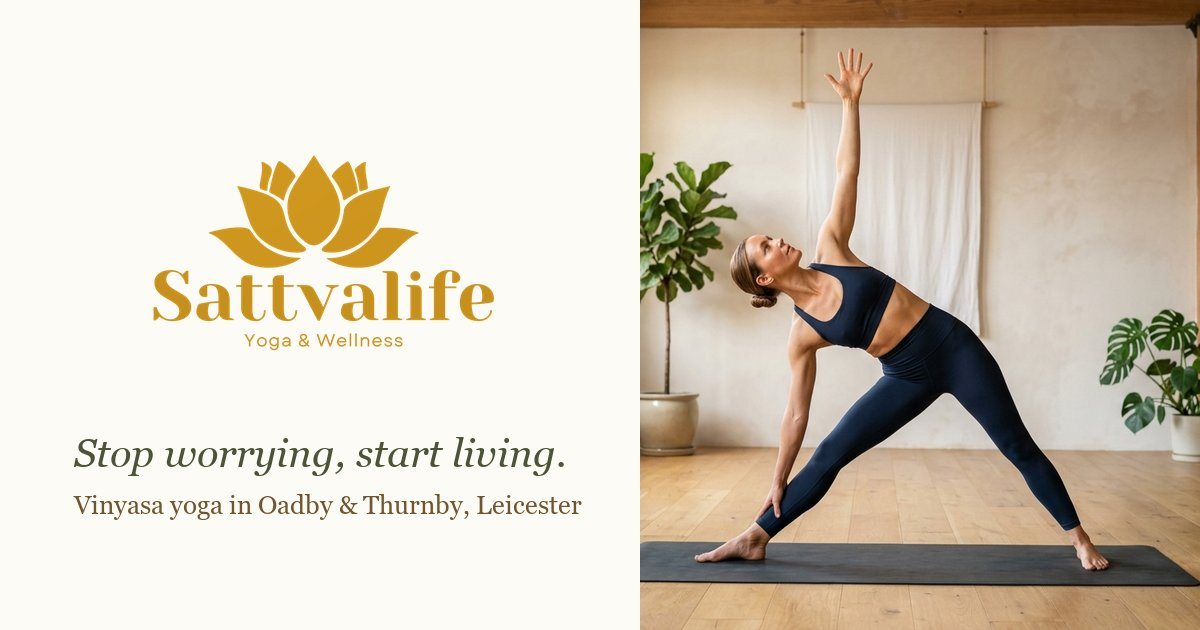
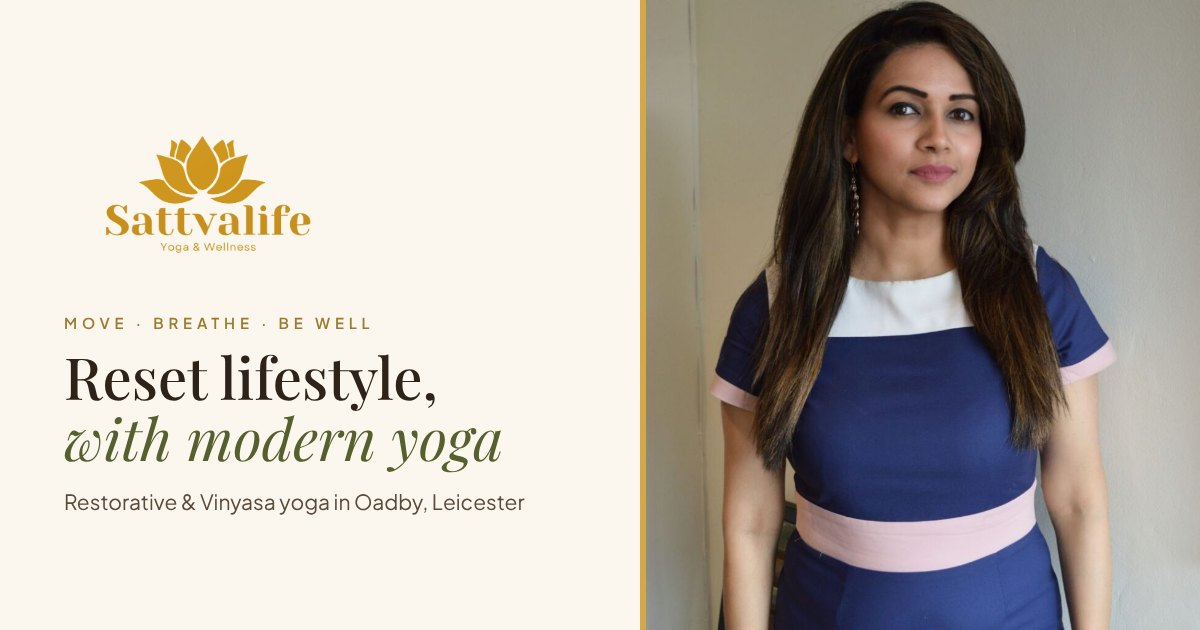
Align the site with Amisha's final flyer and retire the rejected tagline
- Hero: "Reset lifestyle, with modern yoga" and "Move · Breathe · Be well"
  from her A5 flyer, replacing "Stop worrying, start living", which she
  asked to drop on 3 Oct.
- Link preview image (og-image.jpg) rebuilt with Amisha's own photo and the
  new line; the old one still said Thurnby and used a stock-style photo.
- Sound Baths and Private Sessions cards get an illustrated olive and gold
  plate with her flyer copy instead of an empty cream frame, until real
  photos exist.
- Weekly class renamed Restorative & Vinyasa Yoga; service copy, celebration
  occasions (pre-wedding, wellness days) and service area (Leicestershire,
  London & UK wide) follow the flyer.
- Workplace card on Experiences gets the office session photo so the row is
  even; manifest and meta no longer mention Thurnby.
- Hero headline steps down a size under 400px so it keeps two lines.

Claude-Session: https://claude.ai/code/session_0174TLet1ykFQns3u56MJnfy

diff --git a/src/components/Photo.tsx b/src/components/Photo.tsx
@@ -1,4 +1,4 @@
-import { PHOTOS, type PhotoKey } from '@/data/photos'
+import { PHOTOS, type PhotoKey, type PlateArt } from '@/data/photos'
 
 /**
  * Renders a photo slot. While a slot is waiting on real photography it shows a
@@ -27,6 +27,36 @@ export default function Photo({
     return <div className={className} style={{ aspectRatio: '4/5' }} aria-hidden="true" />
   }
   const style = { aspectRatio: photo.ratio }
+
+  if (!photo.src && photo.art) {
+    return (
+      <div
+        className={`relative flex flex-col items-center justify-center overflow-hidden bg-gradient-to-b from-forest-700 via-forest-800 to-forest-900 px-6 text-center ${className}`}
+        style={style}
+        role="img"
+        aria-label={photo.alt}
+      >
+        {/* Soft gold glow and a watermark lotus, so the plate has depth rather than a flat fill. */}
+        <div className="pointer-events-none absolute -top-1/4 left-1/2 h-3/4 w-[140%] -translate-x-1/2 rounded-full bg-amber-300/15 blur-3xl" aria-hidden="true" />
+        <img
+          src="/images/opt/lotus-192.png"
+          alt=""
+          aria-hidden="true"
+          width={192}
+          height={103}
+          className="pointer-events-none absolute -bottom-6 -right-8 w-48 opacity-[0.07]"
+        />
+        <span className="relative flex h-28 w-28 items-center justify-center rounded-full border border-amber-300/40 bg-cream-50/[0.06] sm:h-32 sm:w-32">
+          <PlateIllustration art={photo.art} />
+        </span>
+        {photo.plateLine && (
+          <p className="relative mt-6 max-w-[15rem] font-serif text-lg italic leading-snug text-cream-100/90 sm:text-xl">
+            {photo.plateLine}
+          </p>
+        )}
+      </div>
+    )
+  }
 
   if (!photo.src) {
     return (
@@ -59,5 +89,55 @@ export default function Photo({
       fetchPriority={priority ? 'high' : undefined}
       className={`object-cover ${className} ${imgClassName}`}
     />
+  )
+}
+
+/** Gold line drawings for the plates, drawn to match the flyer's service roundels. */
+function PlateIllustration({ art }: { art: PlateArt }) {
+  const common = {
+    viewBox: '0 0 64 64',
+    fill: 'none',
+    stroke: 'currentColor',
+    strokeWidth: 1.6,
+    strokeLinecap: 'round' as const,
+    strokeLinejoin: 'round' as const,
+    className: 'h-16 w-16 text-amber-300 sm:h-[4.5rem] sm:w-[4.5rem]',
+    'aria-hidden': true,
+  }
+  if (art === 'bowl') {
+    return (
+      <svg {...common}>
+        {/* Singing bowl on its cushion, with the mallet and three rising sound lines */}
+        <path d="M14 34h36c0 9.5-8 16-18 16s-18-6.5-18-16z" />
+        <path d="M14 34c0-1.6 8-3 18-3s18 1.4 18 3" />
+        <path d="M20 53c3 2 7.5 3 12 3s9-1 12-3" />
+        <path d="M44 22l9-9" />
+        <circle cx="54.5" cy="11.5" r="2" />
+        <path d="M24 24c-2-2.5-2-5 0-7.5" />
+        <path d="M32 24c-2-3-2-6.5 0-9.5" />
+        <path d="M40 24c-2-2.5-2-5 0-7.5" opacity="0.6" />
+      </svg>
+    )
+  }
+  if (art === 'mat') {
+    return (
+      <svg {...common}>
+        {/* A rolled mat beside a small lotus: the one-to-one roundel on the flyer */}
+        <ellipse cx="22" cy="40" rx="8" ry="8" />
+        <ellipse cx="22" cy="40" rx="3.5" ry="3.5" />
+        <path d="M22 32h22a8 8 0 0 1 0 16H22" />
+        <path d="M30 48h14" />
+        <path d="M44 22c-2.2-2.4-2.2-5.6 0-8 2.2 2.4 2.2 5.6 0 8z" />
+        <path d="M44 22c-3.6.2-6.2-1.4-7.4-4.4 3.4-.4 5.9 1.1 7.4 4.4z" />
+        <path d="M44 22c3.6.2 6.2-1.4 7.4-4.4-3.4-.4-5.9 1.1-7.4 4.4z" />
+      </svg>
+    )
+  }
+  return (
+    <svg {...common}>
+      <path d="M32 44c-5-5-5-13 0-20 5 7 5 15 0 20z" />
+      <path d="M32 44c-8 .5-14-3-16-10 7-1 12.5 2.5 16 10z" />
+      <path d="M32 44c8 .5 14-3 16-10-7-1-12.5 2.5-16 10z" />
+    </svg>
   )
 }

diff --git a/src/data/content.ts b/src/data/content.ts
@@ -8,7 +8,7 @@ import type { PhotoKey } from '@/data/photos'
 
 export const BRAND = {
   name: 'Sattvalife Yoga',
-  tagline: 'Stop Worrying, Start Living',
+  tagline: 'Reset Lifestyle, with Modern Yoga',
   location: 'Leicester, UK',
   copyright: 'Sattvalife Yoga',
 }
@@ -192,8 +192,8 @@ export interface ClassEntry {
 export const CLASSES: ClassEntry[] = [
   {
     id: 'tue',
-    name: 'Tuesday Evening Flow',
-    blurb: 'A steady Vinyasa flow to unwind midweek, working through back, belly and breath and closing in guided stillness.',
+    name: 'Restorative & Vinyasa Yoga',
+    blurb: 'A steady Vinyasa flow to unwind midweek, working through back, belly and breath, then easing into restorative postures and guided stillness.',
     audience: 'All levels, beginners welcome',
     venueId: 'tue',
     price: 10,
@@ -242,7 +242,7 @@ export const PRACTICES: Practice[] = [
   {
     id: 'yoga',
     name: 'Yoga',
-    text: 'Our weekly Vinyasa class in Oadby. Small groups, every ability welcome.',
+    text: 'Restorative & Vinyasa yoga, Tuesdays at 6:30pm in Oadby. Small group, every ability welcome.',
     to: '/classes',
     cta: 'See the timetable',
     photo: 'practiceYoga',
@@ -258,7 +258,7 @@ export const PRACTICES: Practice[] = [
   {
     id: 'breathwork',
     name: 'Breathwork & Meditation',
-    text: 'Guided breathing and candle meditation to settle a busy mind.',
+    text: 'Breathwork, mindfulness and candle meditation. Ignites focus, releases tension, elevates.',
     to: '/contact#enquiry',
     cta: 'Enquire',
     photo: 'practiceBreathwork',
@@ -266,7 +266,7 @@ export const PRACTICES: Practice[] = [
   {
     id: 'soundbath',
     name: 'Sound Baths',
-    text: 'Deep rest with singing bowls, as part of a celebration or a wellbeing morning.',
+    text: 'Deep rest with singing bowls, on its own or as part of a celebration or wellbeing day.',
     to: '/contact#enquiry',
     cta: 'Enquire',
     photo: 'practiceSound',
@@ -274,7 +274,7 @@ export const PRACTICES: Practice[] = [
   {
     id: 'private',
     name: 'Private Sessions',
-    text: 'One to one or a small group, in your space or ours, shaped around you.',
+    text: 'Private 1-2-1 or a small group, in your space or ours, shaped entirely around you.',
     to: '/contact#enquiry',
     cta: 'Enquire',
     photo: 'practicePrivate',
@@ -282,7 +282,7 @@ export const PRACTICES: Practice[] = [
   {
     id: 'corporate',
     name: 'Corporate Wellness',
-    text: 'Desk yoga and wellbeing mornings for teams across Leicestershire.',
+    text: 'Classes and workshops curated to your organisation’s needs, in Leicestershire, London and UK wide.',
     to: '/corporate',
     cta: 'Request a proposal',
     photo: 'practiceCorporate',
@@ -444,8 +444,8 @@ export interface EventOffering {
 export const CELEBRATION_OCCASIONS = [
   { title: 'Baby showers', text: 'A gentle, joyful way to gather before the baby arrives, with everything adapted for mums-to-be.' },
   { title: 'Birthdays', text: 'Mark the year with movement, breath and something nourishing, instead of the usual meal out.' },
-  { title: 'Hen parties', text: 'A calm, memorable start to the celebration, and a session that suits everyone in the group.' },
-  { title: 'Special occasions', text: 'Anniversaries, reunions, team days, or simply an excuse to bring your people together.' },
+  { title: 'Hen & pre-wedding', text: 'A calm, memorable start to the wedding celebrations, and a session that suits everyone in the group.' },
+  { title: 'Wellness days & gatherings', text: 'Anniversaries, reunions, team days, or simply an excuse to bring your people together. We curate the day around you.' },
 ]
 
 /** What we can bring to an event, grouped the way the studio describes them. */

diff --git a/index.html b/index.html
@@ -4,23 +4,23 @@
     <meta charset="UTF-8" />
     <meta name="viewport" content="width=device-width, initial-scale=1.0, viewport-fit=cover" />
     <title>Sattvalife Yoga | Vinyasa Yoga Classes in Leicester</title>
-    <meta name="description" content="Small-group Vinyasa yoga in Oadby, Leicester. Personal attention for every age and ability, plus workplace wellbeing sessions. Rated 5.0 on Google." />
+    <meta name="description" content="Small-group Restorative &amp; Vinyasa yoga in Oadby, Leicester. Personal attention for every age and ability, plus workplace wellbeing sessions. Rated 5.0 on Google." />
     <meta name="robots" content="index, follow" />
     <meta name="author" content="Sattvalife Yoga" />
     <!-- Open Graph / Social sharing -->
     <meta property="og:site_name" content="Sattvalife Yoga" />
     <meta property="og:title" content="Sattvalife Yoga | Vinyasa Yoga Classes in Leicester" />
-    <meta property="og:description" content="Small-group Vinyasa yoga in Oadby, Leicester. Personal attention for every age and ability." />
+    <meta property="og:description" content="Small-group Restorative &amp; Vinyasa yoga in Oadby, Leicester. Personal attention for every age and ability." />
     <meta property="og:image" content="https://sattvalife-yoga.web.app/og-image.jpg" />
     <meta property="og:image:width" content="1200" />
     <meta property="og:image:height" content="630" />
-    <meta property="og:image:alt" content="Sattvalife Yoga & Wellness: Stop worrying, start living." />
+    <meta property="og:image:alt" content="Sattvalife Yoga &amp; Wellness: Reset lifestyle with modern yoga." />
     <meta property="og:url" content="https://sattvalife-yoga.web.app/" />
     <meta property="og:type" content="website" />
     <meta property="og:locale" content="en_GB" />
     <meta name="twitter:card" content="summary_large_image" />
     <meta name="twitter:title" content="Sattvalife Yoga | Vinyasa Yoga Classes in Leicester" />
-    <meta name="twitter:description" content="Small-group Vinyasa yoga in Oadby, Leicester. Personal attention for every age and ability." />
+    <meta name="twitter:description" content="Small-group Restorative &amp; Vinyasa yoga in Oadby, Leicester. Personal attention for every age and ability." />
     <meta name="twitter:image" content="https://sattvalife-yoga.web.app/og-image.jpg" />
     <link rel="canonical" href="https://sattvalife-yoga.web.app/" />
     <!-- PWA / App icons -->
@@ -52,7 +52,7 @@
         "addressRegion": "Leicestershire",
         "addressCountry": "GB"
       },
-      "areaServed": ["Oadby", "Leicester", "Leicestershire"],
+      "areaServed": ["Oadby", "Leicester", "Leicestershire", "London", "United Kingdom"],
       "sameAs": [
         "https://www.instagram.com/sattvalifeyoga/",
         "https://www.facebook.com/sattvalifeyoga",

diff --git a/src/pages/ExperiencesPage.tsx b/src/pages/ExperiencesPage.tsx
@@ -76,7 +76,7 @@ export default function ExperiencesPage() {
             Celebrate with <em className="font-normal text-forest-600">something calmer</em>
           </>
         }
-        intro="Baby showers, birthdays, hen parties and special occasions, hosted as a wellness experience your guests will remember. We come to you, and shape the session around your group."
+        intro="Baby showers, birthdays, pre-wedding celebrations, wellness days and gatherings, hosted as a wellness experience your guests will remember. We come to you, across Leicestershire, London and UK wide, and curate the day around your group."
       >
         <Link to="/experiences#enquire" className="btn-primary btn-lg">
           Enquire about your event
@@ -152,17 +152,25 @@ export default function ExperiencesPage() {
               </Reveal>
             ))}
             <Reveal delay={0.16}>
-              <article className="flex h-full flex-col justify-between rounded-3xl bg-forest-800 p-7 text-cream-50 sm:p-8">
-                <div>
+              <article className="group flex h-full flex-col overflow-hidden rounded-3xl bg-forest-800 text-cream-50">
+                <div className="overflow-hidden">
+                  <img
+                    src="/images/opt/office-session-2-800.webp"
+                    alt="A Sattvalife workplace session with an office team"
+                    loading="lazy"
+                    className="aspect-[16/10] w-full object-cover transition-transform duration-700 group-hover:scale-[1.03]"
+                  />
+                </div>
+                <div className="flex flex-1 flex-col p-7">
                   <h3 className="text-2xl !text-cream-50 sm:text-3xl">Workplace wellbeing</h3>
-                  <p className="mt-3 text-base leading-relaxed text-cream-100/85">
+                  <p className="mt-3 flex-1 text-base leading-relaxed text-cream-100/85">
                     Wellbeing mornings, seated desk yoga and regular on-site sessions for teams. That has a page of its own.
                   </p>
-                </div>
-                <Link to="/corporate" className="btn-primary mt-8 self-start">
+                <Link to="/corporate" className="btn-primary mt-6 self-start">
                   Sattvalife@Work
                   <ArrowRight className="h-4 w-4" />
                 </Link>
+                </div>
               </article>
             </Reveal>
           </div>

diff --git a/src/sections/Hero.tsx b/src/sections/Hero.tsx
@@ -10,7 +10,7 @@ import { GoogleG, Stars } from '@/components/motion-primitives'
 
 const EASE = [0.22, 1, 0.36, 1] as const
 
-/** Splits the CMS tagline ("Stop Worrying, Start Living") so the second clause can be set in italic. */
+/** Splits the CMS tagline ("Reset Lifestyle, with Modern Yoga") so the second clause can be set in italic. */
 function splitTagline(tagline: string): [string, string] {
   const i = tagline.indexOf(',')
   if (i === -1) return [tagline, '']
@@ -46,12 +46,12 @@ export default function Hero() {
           <div className="grid items-center gap-12 sm:gap-10 lg:grid-cols-[1.15fr_0.85fr] lg:gap-14">
             <div>
               <motion.p {...enter(0.05)} className="eyebrow">
-                Vinyasa yoga in Oadby, Leicester
+                Move · Breathe · Be well
               </motion.p>
 
               <motion.h1
                 {...enter(0.15)}
-                className="mt-4 pb-1 text-[2.9rem] font-medium leading-[1.04] tracking-[-0.02em] sm:text-6xl lg:text-[4.75rem] lg:leading-[1.03]"
+                className="mt-4 pb-1 text-[2.5rem] xs:text-[2.9rem] font-medium leading-[1.04] tracking-[-0.02em] sm:text-6xl lg:text-[4.75rem] lg:leading-[1.03]"
               >
                 {sentenceCase(lead)}
                 {rest && (
@@ -63,7 +63,7 @@ export default function Hero() {
               </motion.h1>
 
               <motion.p {...enter(0.26)} className="lead mt-5 max-w-md">
-                You don’t have to fit yoga. We help yoga fit into your life.
+                Traditional practice, for a calmer, healthier, happier you. You don’t have to fit yoga. We help yoga fit into your life.
               </motion.p>
 
               <motion.div {...enter(0.36)} className="mt-8 flex flex-col gap-3 sm:flex-row">

diff --git a/src/data/photos.ts b/src/data/photos.ts
@@ -19,7 +19,16 @@ export interface PhotoSlot {
   srcSet?: string
   sizes?: string
   alt: string
+  /**
+   * While src is null, draw this illustrated plate (gold line art on olive, in
+   * the style of the A5 flyer's service roundels) instead of an empty frame.
+   */
+  art?: PlateArt
+  /** One line set on the plate, taken from the studio's own flyer copy. */
+  plateLine?: string
 }
+
+export type PlateArt = 'bowl' | 'mat' | 'lotus'
 
 const slots = {
   heroPortrait: {
@@ -116,6 +125,8 @@ const slots = {
     supply: '760 x 950px',
     src: null,
     alt: 'A Sattvalife sound bath',
+    art: 'bowl',
+    plateLine: 'Reduces stress, triggers deep healing and relaxation',
   },
   practicePrivate: {
     where: 'Homepage, "Find your practice" — Private Sessions card',
@@ -124,6 +135,8 @@ const slots = {
     supply: '760 x 950px',
     src: null,
     alt: 'A private Sattvalife session',
+    art: 'mat',
+    plateLine: 'Tailored, deep, intimate. Fast-tracks transformation',
   },
   practiceCorporate: {
     where: 'Homepage, "Find your practice" — Corporate Wellness card',
